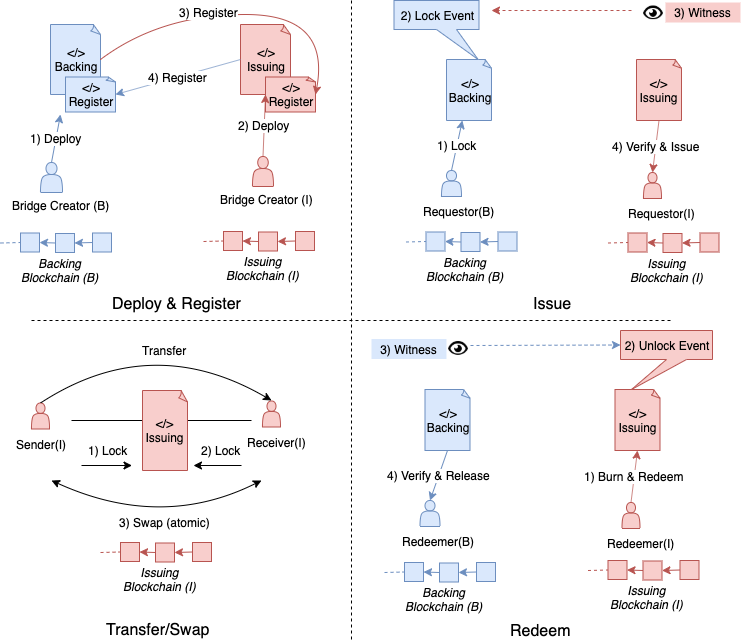
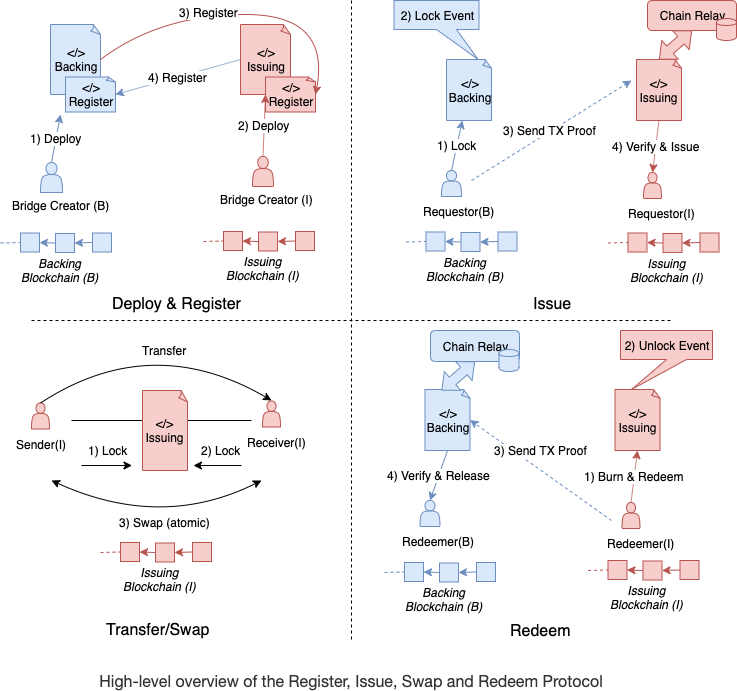
add RFC-0014 Darwinia Token Migration Solution and update protocol overview figure

diff --git a/RFC/zh_CN/0014-darwinia-token-migration-by-cross-chain-redeem-protocol.md b/RFC/zh_CN/0014-darwinia-token-migration-by-cross-chain-redeem-protocol.md
@@ -1,0 +1,97 @@
+---
+rfc: 14
+title: 0014-darwinia-token-migration-by-cross-chain-redeem-protocol
+status: Draft
+desc: Darwinia Token Migration By Cross-chain Redeem Protocol
+
+---
+
+# Darwinia Token Migration By Cross-chain Redeem Protocol
+
+## I. 概述
+
+在Darwinia主网上线之前，已经有一部分RING/KTON资产以ERC20或TRC20的形式存在于以太坊网络或者波场网络之中。从资产跨链的角度来看，因为RING和KTON是被定义成Darwinia 网络的原生资产，因此这些ERC20 Token本质上是以某种形式跨链到以太坊网络上的，也可以理解为CBA (Cryptocurreny Backed Assets)，也就是说，每个ERC-20 RING都有相应的RING被锁定在Darwinia 主网上面，在主网上线之前，相应的背书资产即存在于创世块(Genesis)中。
+
+RING和KTON的ERC20 Token信息:
+
+- RING Token Address: https://etherscan.io/token/0x9469d013805bffb7d3debe5e7839237e535ec483
+- KTON Token Address: https://etherscan.io/token/0x9f284e1337a815fe77d2ff4ae46544645b20c5ff
+
+本文将在[RFC-0012: Darwinia Bridge Core: Interoperation in ChainRelay Enabled Blockchains](./0012-darwinia-bridge-core-interoperation-in-chainrelay-enabled-blockchains.md)的基础上，讨论Darwinia主网上线后，ERC-20形式的RING如何赎回至Darwinia网络，以及如何借助于Darwinia 转接桥的设计，Token将如何在Darwinia主网及其他公链中进行流转。
+
+
+
+## II. 方案
+
+### A. 设计范围
+
+- Darwinia原生资产RING/KTON跨链设计。主要描述如何应用ERC-0012及相关跨链互操作协议，帮助RING/KTON实现在Darwinia网络和其他支持智能合约的网络(例如，以太坊、TRON、EOS)之间流转
+- 创世块中管理背书资产。当Darwinia主网上线时，目前以ERC20/TRC20形式存在的RING/KTON对应的原生资产将会记录在创世块之中，并被背书管理模块锁定，用于支持后续外部资产的赎回。
+- 背书管理模块的其他主要功能。背书管理模块还将满足主网上线后其他的跨链转账需求，例如后续用户如何将主网上的RING/KTON原生资产跨链到以太坊上。其发行出来的ERC20代币(代表CBA)将与现有的RING/KTON合约共享同一个ERC-20智能合约。
+- 外部链的发行合约和chain relay。这部分方案的可行性依赖于chain relay的实现方案，主要是如何在以太坊上实现一个低成本可持续运行的Darwinia Chain Relay，这部分的细节不在此处描述，具体可参考 RFV-0012 VI章节。在以太坊实现了一个Darwinia Chain Relay的基础之上，外部链需要新增一个发型管理合约(Issuing Contract)用于接受Darwinia上的跨链转账交易证明，并通过Darwinia Chain Relay进行验证（包括交易存在证明，共识证明，交易内容证明等），在验证通过之后，进行相关的RING/KTON发行。这部分属于高级功能，其开发和实现可以独立于背书模块中的迁移功能，在最开始，可以先只支持单向的以太坊至Darwinia的赎回功能。
+
+
+
+### B. 术语
+
+- **Genesis**， 创世块或表示区块链网络创世状态的账本数据。
+- **CBA**, 全称Cryptocurrency Back Asset, 即有加密资产背书的资产，详细介绍可以参考XClaim [1].
+- **Chain Relay**,  Cross-Chain State Verification. It is capable of interpreting the statte of the backing blockchain B and provide functionality comparable to an SPV or light client. 主要用于验证外部区块链网络的交易存在性证明和共识证明。
+- **Backing Contract/Module**，Backing Blockchain中用于管理背书资产的合约或者模块，包括锁定和释放等功能，在Darwinia网络中Backing Module还负责管理锁定在创世块中的背书资产。
+- **Chain Relay Module**, 实现在Darwinia上的针对外部区块链网络(例如Ethereum/ Tron)的Chain Relay.
+- **External Darwinia Chain Relay**，存在于外部区块链网络上的针对Darwinia Network的Chain Relay.
+- **External Issuing Contract**, 用于在外部区块链网络中发行原生RING/KTON CBA的ERC-20 Token.
+
+
+
+### C. 通过特殊赎回协议实现RING/KTON迁移
+
+当用户需要将ERC-20形式的RING通证转化成Darwinia主网上的RING的时候，其只需要将该部分RING发送一个Token销毁合约，在确认销毁成功之后，用户将该笔交易证明发送给Darwinia网路的解锁合约，解锁合约在验证完成之后，将会从背书资产模块中释放对应的RING通证给赎回者。
+
+![Darwinia Token Migration Protocol](./images/darwinia_token_migration_protocol.png)
+
+#### I. 与普通赎回协议的区别
+
+[WIP]
+
+#### II. Chain Relay模块
+
+[WIP]
+
+### D. 背书资产Genesis配置
+
+在Darwinia主网上线之时，就存在CBA背书资产，因此需要将RING/KTON在其他链上的资产背书信息定义在Genesis Config中，当主网上线之后，这些背书资产将会初始化相应原生资产，并将其锁定在背书合约中，供特殊赎回(迁移)协议使用。
+
+
+
+Genesis Congig 片段示例:
+
+```json
+{
+  "backingAssets": [
+    "Ethereum" : {
+      "RING" : 100000,
+      "KTON" : 50000,
+    },
+    "Tron" : {
+      "RING" : 3000,
+      "KTON" : 200,
+    }
+  ]
+}
+```
+
+
+
+### E. 跨链转账的普通发行和普通赎回协议
+
+
+
+## 参考
+
+
+
+1. XClaim, https://eprint.iacr.org/2018/643.pdf
+2. FlyClient, https://eprint.iacr.org/2019/226.pdf
+
+
